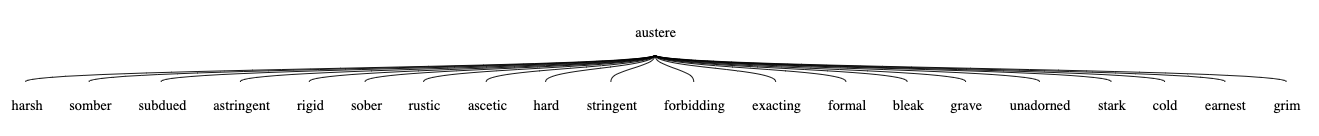
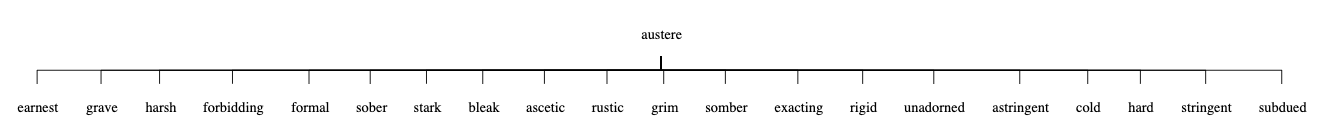
connector changed

Changed region(s): [[0.0, 0.4118, 0.9947, 0.6176], [0.0, 0.7353, 0.9947, 0.8529], [0.4663, 0.2059, 0.5284, 0.2941]]

diff --git a/Explore.html b/Explore.html
@@ -28,7 +28,10 @@
                }
            }
            let config = {
-               container: '#tree'
+               container: '#tree',
+               connectors: {
+                   type: 'step'
+               }
            };
            for(const [_, v] of Object.entries(tree)) {
                treeArray.push(v);
